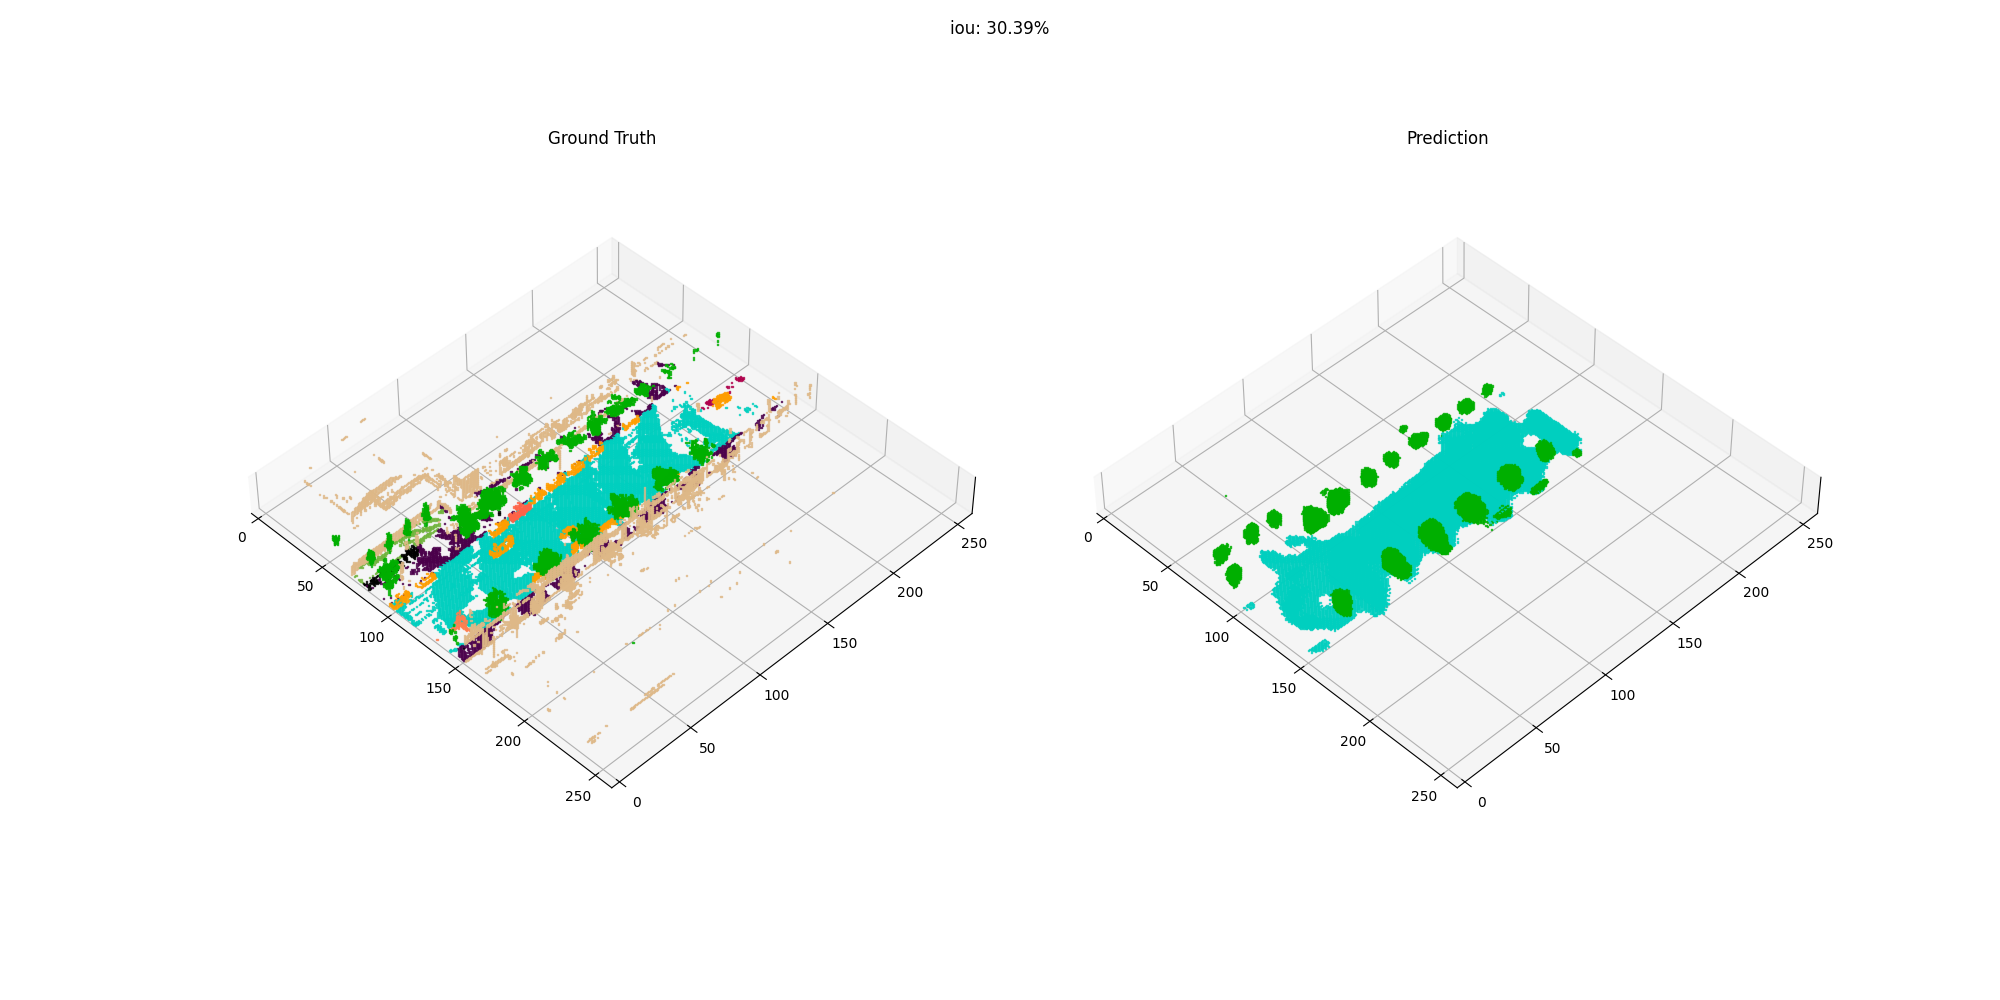
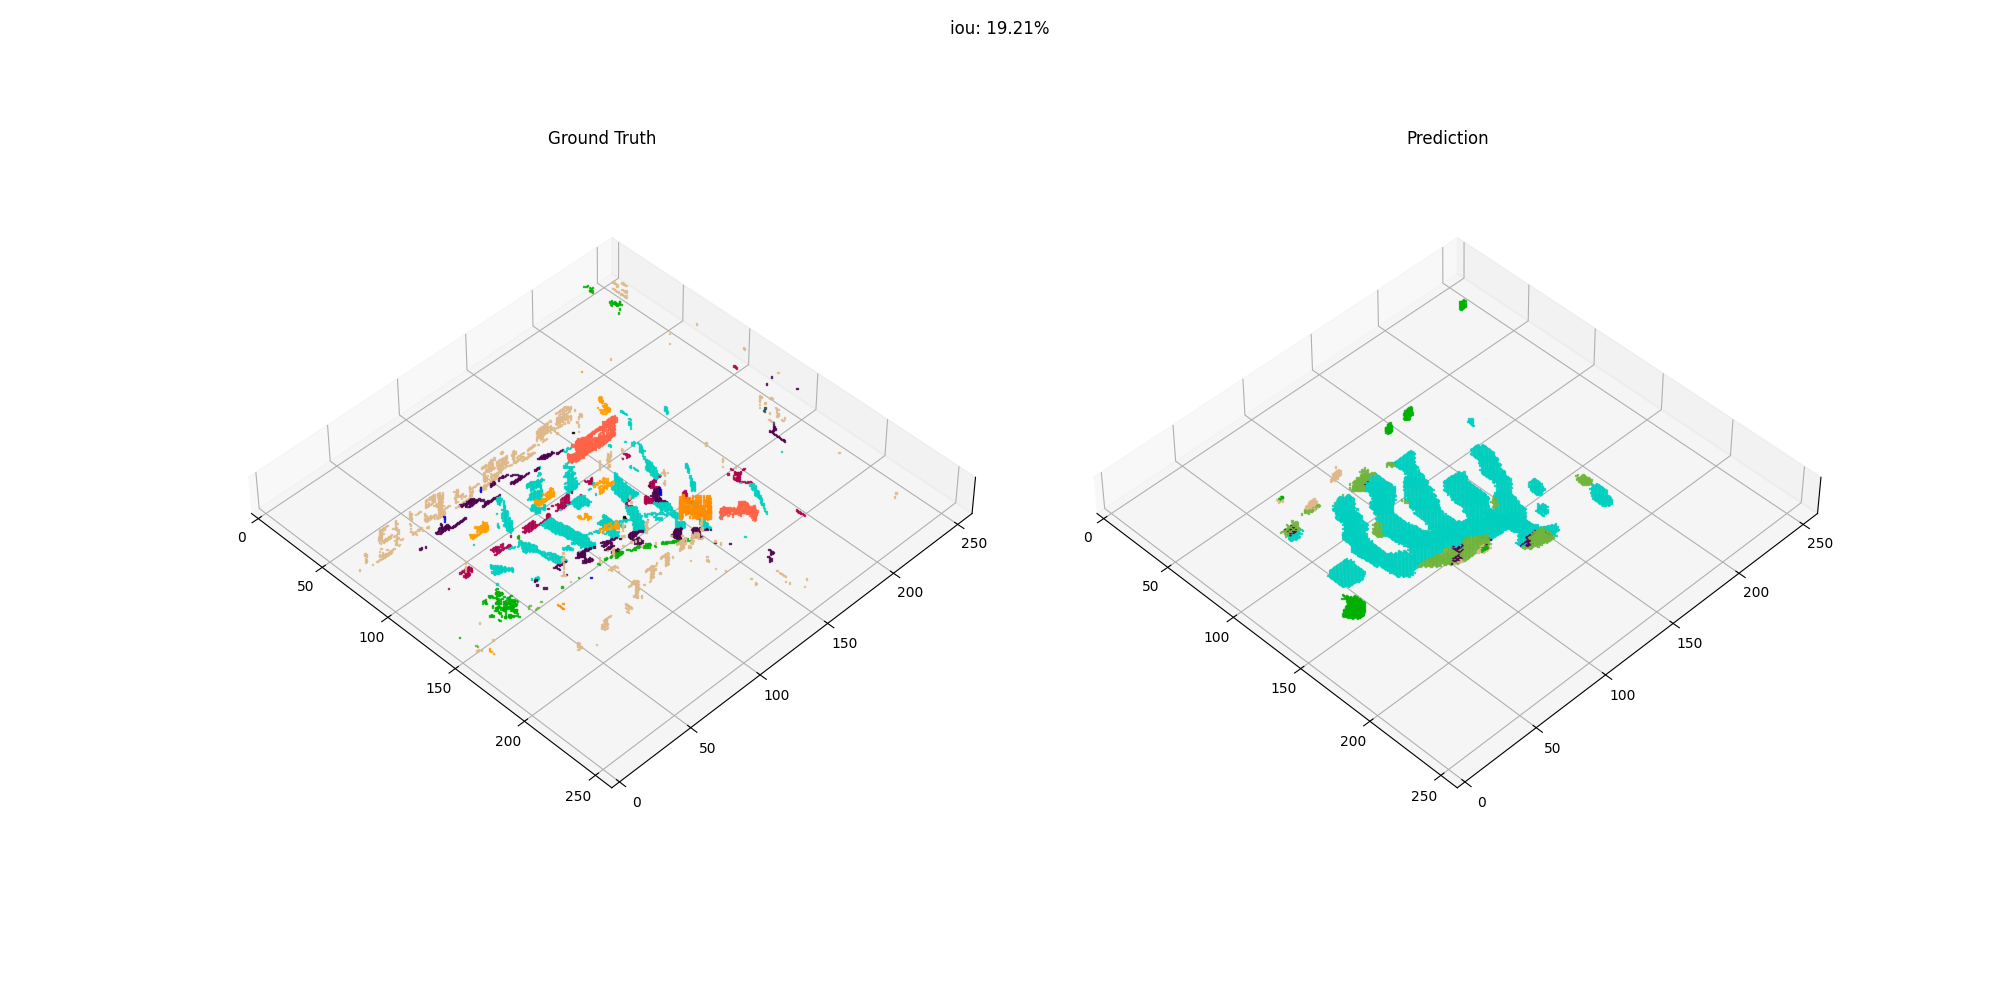
update

diff --git a/occupancy/datasets/nuscenes.py b/occupancy/datasets/nuscenes.py
@@ -1,5 +1,6 @@
 from functools import cached_property
 import glob
+import random
 from typing import List, Optional, Tuple
 from matplotlib import pyplot as plt
 import torch
@@ -165,8 +166,22 @@ class NuScenesPointCloud:
         return torch.from_numpy(np.load(file)["data"].astype(np.uint8))
 
     @classmethod
-    def _load_full_size_occupancy(cls, path: str, binary: bool = True) -> Tensor:
+    def _load_full_size_occupancy(cls, path: str, binary: bool = True, rotate: Optional[Tensor] = None) -> Tensor:
         points = torch.from_numpy(np.load(path)).t()
+        if rotate is not None:
+            xyz = points[[2, 1, 0]].clone()
+            xyz[0] = xyz[0] - 256
+            xyz[1] = xyz[1] - 256
+            xyz[2] = xyz[2] - 20
+            xyz = torch.matmul(rotate, xyz.type_as(rotate)).type_as(points)
+            xyz[0] = xyz[0] + 256
+            xyz[1] = xyz[1] + 256
+            xyz[2] = xyz[2] + 20
+            points[[2, 1, 0]] = xyz
+
+            valid = (xyz[0] >= 0) & (xyz[0] < 512) & (xyz[1] >= 0) & (xyz[1] < 512) & (xyz[2] >= 0) & (xyz[2] < 64)
+            points = points[:, valid]
+
         attrs = points[3].type(torch.long) + 1
         voxel = torch.zeros(512, 512, 64, dtype=torch.long)
         voxel[points[2].long(), points[1].long(), points[0].long()] = attrs
@@ -180,8 +195,8 @@ class NuScenesPointCloud:
         return points, attrs[None, ...], voxel
 
     @classmethod
-    def _load_occupancy(cls, path: str, binary: bool = True) -> Tensor:
-        points, attrs, occ = cls._load_full_size_occupancy(path, binary)
+    def _load_occupancy(cls, path: str, binary: bool = True, rotate: Optional[Tensor] = None) -> Tensor:
+        points, attrs, occ = cls._load_full_size_occupancy(path, binary, rotate)
         if binary:
             occ = F.interpolate(occ.float(), size=(256, 256, 32), mode="trilinear", align_corners=False).bool()
         else:
@@ -285,7 +300,10 @@ class NuScenesOccupancyDataset(Dataset):
         return len(self._paths)
 
     def __getitem__(self, index: int):
-        return NuScenesPointCloud._load_occupancy(self._paths[index], binary=self.binary)[-1][0]
+        rot = R.from_euler("z", random.randint(0, 360), degrees=True).as_matrix()
+        rot = torch.from_numpy(rot).to(torch.float32)
+        voxel = NuScenesPointCloud._load_occupancy(self._paths[index], self.binary, rot)[-1][0]
+        return voxel
 
 
 class NuScenesDataset(Dataset):
